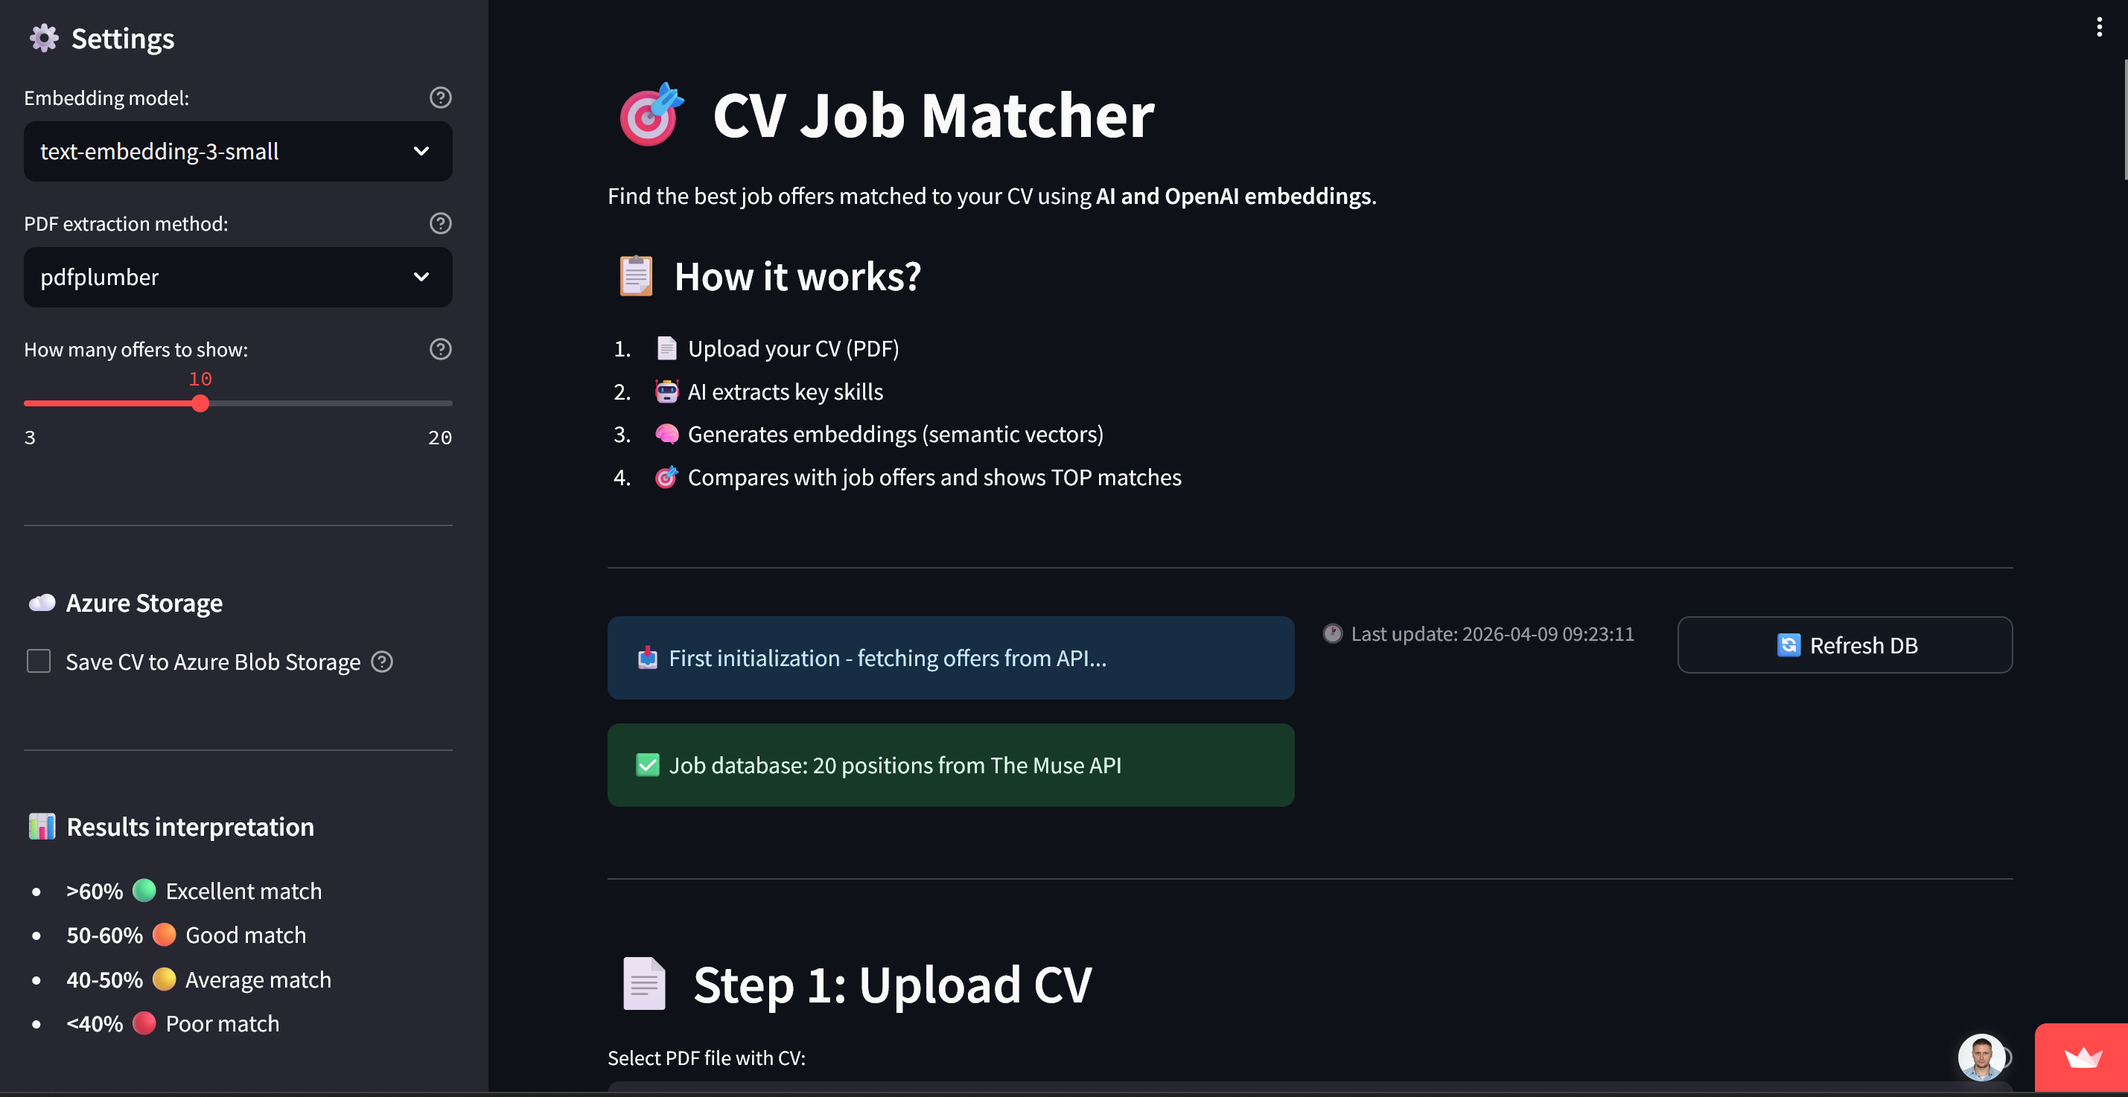
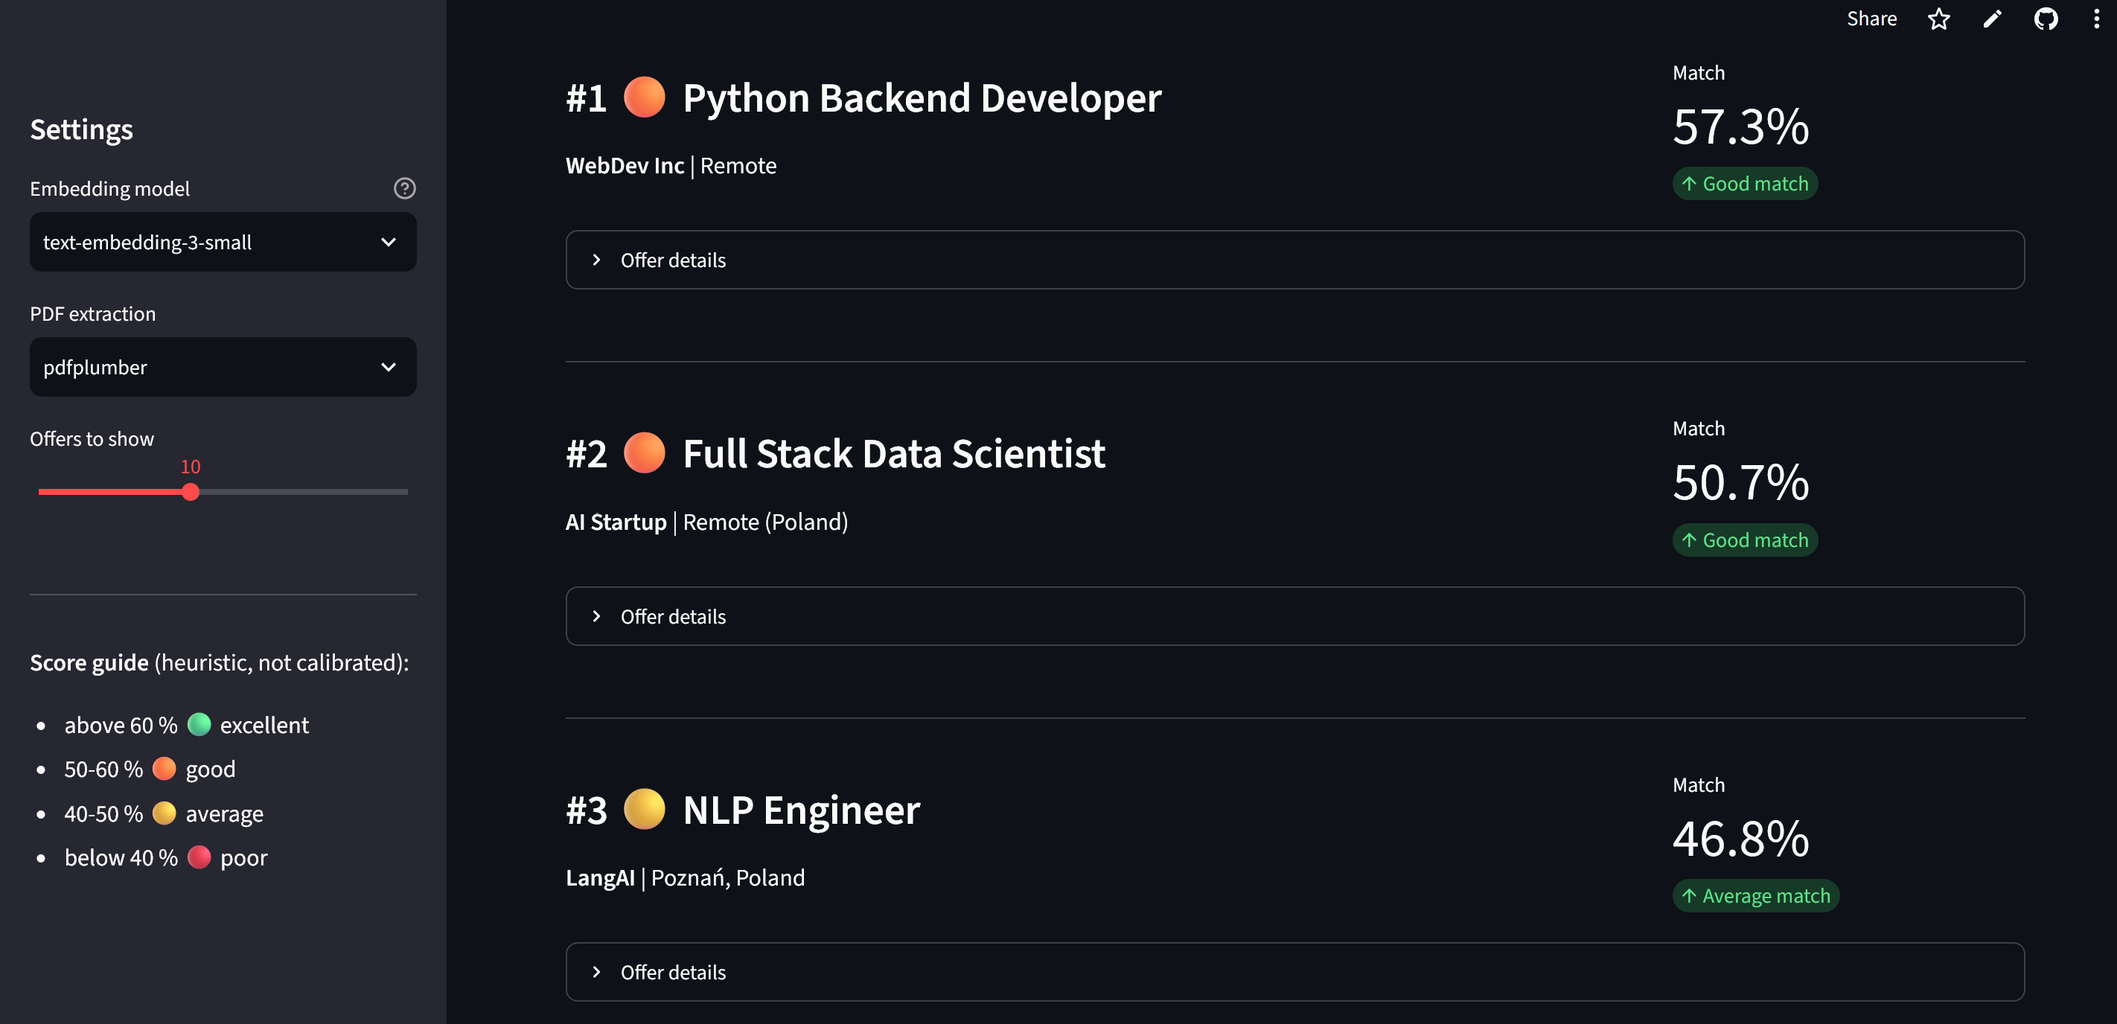
Portfolio: CV matcher and cuneiform pages, nav label, crosslinks

diff --git a/docs/18_cv-matching-openai-embeddings/index.md b/docs/18_cv-matching-openai-embeddings/index.md
@@ -1,98 +1,93 @@
 # 🎯 CV Job Matcher
 
-**AI-Powered CV Matching with OpenAI Embeddings, Streamlit**
+**Embedding-based CV to job-offer matching with OpenAI and Streamlit — with a privacy-first data flow and a test suite that needs no API key**
 
 ---
-![App View](18screen.png)
+![Ranked offers with match scores](18screen.png)
+*Ranking of the bundled fictional sample offers for one CV. Scores are cosine similarities of OpenAI embeddings; the bands are heuristic.*
 
 ## 🚀 Live Demo
 
-[▶ Open Live App](https://cv-matching-openai-embeddings.streamlit.app/)
+[▶ Open Live App](https://cv-matching-openai-embeddings.streamlit.app/) (Streamlit Community Cloud; the app sleeps when idle and wakes up with one click)
 
 ---
 
 ## 📌 Project Overview
 
-**CV Job Matcher** is an AI-powered web application that semantically matches a candidate's CV to real job offers using OpenAI embeddings and cosine similarity.
+**CV Job Matcher** ranks job offers against a CV. An LLM (`gpt-4o-mini`) condenses the CV into a short list of technical skills; the skills and the offers are embedded with `text-embedding-3-small/large`; offers are ranked by cosine similarity. Offers come from The Muse public API.
 
-The project was built as an **end-to-end portfolio project**, covering the full pipeline from PDF text extraction, through LLM-based skills condensation, semantic vector matching, to cloud deployment on Azure — demonstrating practical skills in AI integration, cloud storage, and production deployment.
+It is a **demonstration of an embedding pipeline, not a validated recommender**: there is no labelled relevance data, so match quality has not been measured, and the 60/50/40 % score bands are heuristic. The value of the project is the engineering around it: batching, caching, failure handling, privacy, and tests.
 
-It was designed bottom-up: starting with **3 exploratory Jupyter notebooks** to empirically validate each component before assembling the final Streamlit application.
-
----
-
-## 🎯 Features
-
-- 📄 **PDF CV extraction** — dual-library support: pdfplumber (default) and PyPDF2
-- 🤖 **AI skills extraction** — GPT-4o-mini condenses full CV into a concise skills summary before embedding
-- 🧠 **Semantic matching** — OpenAI `text-embedding-3-small` (1536-dim vectors) + cosine similarity
-- ☁ **Azure Blob Storage** — uploaded CVs persisted to `cv-uploads` container with timestamp naming
-- 🔄 **Live job data** — real-time offers from The Muse API (ML, DS, Python, AI, Deep Learning categories)
-- 📊 **CSV export** — download ranked match results
-- ⚡ **Cache TTL=1h** — minimizes API token costs across user sessions
+It was built bottom-up: three exploratory notebooks to try each component, then the Streamlit application, then a hardening release (privacy, correctness, tests, CI) driven by a written specification.
 
 ---
 
-## 🧠 Pipeline Architecture
+## 🔒 What happens to your CV
+
+| Step | What happens |
+|---|---|
+| Upload | PDF read **in memory** (max 5 MB, first 10 pages); never written to disk |
+| Skills extraction | CV text (max 20,000 characters) is **sent to OpenAI**; the UI says so |
+| Matching | only the short skills summary is embedded |
+| Storage | **nothing is stored.** The app has no storage code and no cloud-storage dependency |
+
+An earlier version could store uploaded CVs in cloud storage and listed recent file names to all visitors. That code was removed entirely in the hardening release because it exposed other people's data.
+
+---
+
+## 🧠 Pipeline
 
 ```
-[Upload PDF]
+[Upload PDF] → in-memory text extraction (pdfplumber / pypdf)
       ↓
-[pdfplumber → raw text ~9 600 chars]
+[gpt-4o-mini] → skills summary (~400 characters)
       ↓
-[GPT-4o-mini → skills condensation ~400 chars]
-  "Python, PyTorch, scikit-learn, Azure,
-   time series, ETL pipelines, OpenAI API..."
+[text-embedding-3-small] → CV vector (1536-dim)
       ↓
-[text-embedding-3-small → vector 1536-dim]
-CV skills → [−0.023, −0.008, 0.003, ...]
+[The Muse API / cached file / bundled sample offers]
       ↓
-[The Muse API → live job offers]
-  deduplicated by job.id, cached TTL=1h
+[batched embeddings, up to 100 texts per request, cached 1 h]
       ↓
-[text-embedding-3-small → job vectors]
-  title + description + requirements → vector
-      ↓
-[cosine_similarity (scikit-learn)]
-  sim(cv_vector, job_vector) → score 0.0–1.0
-      ↓
-[Ranked results + CSV export]
-      ↓
-[Azure Blob Storage]
-  CV saved as {timestamp}_{filename}
+[cosine similarity (NumPy)] → ranked offers + CSV export
 ```
 
 ---
 
 ## 💡 Key Design Decisions
 
-**Why GPT-4o-mini before embedding?**
-Full CV contains ~9 600 characters of noise — dates, formatting, project descriptions. Embedding raw CV produces noisier vectors. GPT-4o-mini reduces it to ~400 characters of pure skills signal, significantly improving matching quality. Validated empirically in notebook `02_embeddings_test.ipynb`.
+**Why condense the CV before embedding?** A full CV contains dates, formatting and project prose that dilute the vector. In a small exploratory comparison on 5 fictional offers the condensed version ranked the expected role first; this is an observation, not a proven effect.
 
-**Why cosine similarity over dot product?**
-OpenAI embeddings are L2-normalized (vector norm = 1.0), so cosine similarity is equivalent to dot product — but cosine similarity is robust to text length differences between CV and job descriptions.
+**Why is a failed embedding request fatal?** The first version skipped an offer whose embedding failed but kept it in the list, so `zip(jobs, similarities)` attached scores to the wrong offers — a silent wrong ranking. Embedding is now all-or-nothing: on failure the app shows an error and no ranking. `rank_jobs` also raises if the two lists differ in length.
 
-**Why Azure Blob Storage?**
-Azure Web App is stateless — files written to local disk are lost on restart. Blob Storage ensures CV persistence across deployments and provides an audit trail of uploaded files.
+**Why batching and caching?** One request per offer meant 100+ API calls per click. Offers are now embedded in batches of up to 100 and cached for an hour per offer set.
 
-**Why cache TTL=1h on job offers?**
-Each embedding call costs tokens. Caching prevents redundant API calls when multiple users refresh the app within the same hour window.
+**Why does the first start never call the network?** It uses the cached file or the bundled **fictional** sample offers (and says so in the UI); the network is used only on *Refresh DB*.
+
+**Why treat external data as untrusted?** Job titles and links come from a third party: only `http(s)` links are rendered and CSV cells that start with `=`, `+`, `-`, `@` are neutralised (spreadsheet formula injection).
 
 ---
 
-## 🔧 Notebooks (Research Phase)
+## 🧪 Testing
 
-| Notebook | Purpose | Key Finding |
-|---|---|---|
-| `01_pdf_extraction.ipynb` | Compared PyPDF2 vs pdfplumber | pdfplumber produces cleaner text (fewer formatting artifacts) |
-| `02_embeddings_test.ipynb` | Tested embedding strategies | Skills-only embedding outperforms full CV embedding; validated norm=1.0 |
-| `03_justjoin_api.ipynb` | Tested job data sources | The Muse API chosen; deduplication by job.id implemented |
+**38 automated tests run on every push and pull request** (GitHub Actions, Python 3.11, plus `ruff`). They need no API key and no network: OpenAI is replaced by a deterministic fake client.
+
+- **Ranking:** ordering, length mismatch raises, input not mutated, rating thresholds.
+- **Embeddings:** batching (calls = ceil(n/100)), row *i* belongs to text *i* even when the API returns items out of order, a failed request raises instead of returning partial results, long and empty texts.
+- **PDF:** text extraction from generated PDFs with both libraries, garbage input, page limit.
+- **Job data:** HTML stripping, payload formatting, de-duplication, network errors, `javascript:` links dropped, cache/sample fallback.
+- **Privacy rules:** no "Recent CVs" in the UI, no storage option, and no storage module or cloud-storage dependency in code, requirements, workflows or settings.
+- **App:** Streamlit `AppTest` runs the whole script, including matching end to end and "no ranking on embedding failure".
+- **Repository hygiene:** no `.env`, PDF or generated files tracked; no e-mail address or phone number in tracked notebook outputs.
+
+Mutation checks (re-introducing the length-mismatch bug, swallowing a failed embedding batch, removing the CSV neutralisation, bringing back the CV list, adding cloud-storage code) each make the suite fail.
+
+**Not covered:** the real OpenAI and The Muse APIs, match quality (no ground truth), and uploading a file through the browser widget.
 
 ---
 
-## 📊 Results
+## 📊 Illustration on sample offers
 
-Match scores from notebook validation (CV vs sample job offers):
+Scores from the exploratory notebook (a CV against 5 **fictional** sample offers). This shows that the pipeline runs and ranks plausibly, not how good it is on real data:
 
 | Rank | Job Title | Match Score |
 |---|---|---|
@@ -102,50 +97,40 @@ Match scores from notebook validation (CV vs sample job offers):
 | 4 | Python Backend Developer | 49.10% |
 | 5 | Junior Python Developer | 44.70% |
 
-> **Note:** Scores of 60%+ indicate strong semantic alignment. Cosine similarity between embedding vectors does not reach 90%+ for typical text pairs — the model correctly ranked the most relevant role first.
+> `text-embedding-3` similarities are compressed (rarely above 0.7), so the percentages are relative and the bands are heuristic.
 
 ---
 
 ## 🧰 Tech Stack
 
-- **Python 3.11**
-- **Streamlit** — web frontend and deployment UI
-- **OpenAI API** — `GPT-4o-mini` (skills extraction) + `text-embedding-3-small` (embeddings)
-- **scikit-learn** — `cosine_similarity` for vector matching
-- **Azure Blob Storage** — CV file persistence (SDK v12)
-- **Azure Web App** — production deployment (App Service)
-- **pdfplumber / PyPDF2** — PDF text extraction
+- **Python 3.11**, **Streamlit**
+- **OpenAI API** — `gpt-4o-mini` (skills extraction), `text-embedding-3-small/large` (embeddings)
+- **NumPy** — cosine similarity; **pandas** — CSV export
+- **pdfplumber / pypdf** — PDF text extraction
 - **The Muse API** — live job listings
-- **python-dotenv** — environment configuration
-- **Pandas** — results export to CSV
+- **pytest, ruff, GitHub Actions, Dependabot** — tests, lint, CI, dependency updates
 
 ---
 
-## 🚀 Use Cases
+## 🔗 Related Projects
 
-- Job seekers wanting to quickly assess CV fit before applying
-- AI/ML similarity search reference implementation
-- Azure cloud + OpenAI integration portfolio showcase
-- Semantic search demo with real-world data
-- Technical interviews for AI Engineer / Data Engineer roles
+- [Scientific Research Agent](../research-agent-langchain/index.md) — another OpenAI-based application, tested with a scripted fake model and no API key; it also carries a measured evaluation, which this project lacks.
+- [Carbon Nanotubes RAG System](../carbon-nanotubes-rag/index.md) — embeddings and semantic search with a measured retrieval quality (RAGAs).
 
 ---
 
-## 🔧 Potential Extensions
+## ⚠ Limitations
 
-- **Pre-computed job embeddings** stored in Azure AI Search — eliminates per-session embedding cost
-- **Azure Key Vault** — replace `.env` secrets with managed identity
-- **GitHub Actions CI/CD** — automated deployment pipeline
-- **Hybrid search** — combine cosine similarity with BM25 keyword matching
-- **Azure Application Insights** — monitor match distributions and API usage
-- **FastAPI backend** — decouple embedding logic from Streamlit frontend
+- Match quality is unmeasured and the notebook comparison is based on 5 fictional offers.
+- The Muse API returns mostly US-centric offers and only the first page (20) per search term.
+- The CV text is processed by a third party (OpenAI); this is stated in the UI.
 
 ---
 
 ## 📂 Repository
 
+🔗 <a href="https://github.com/slastrzelec/azure-cv-matching-openai-embeddings" target="_blank">GitHub Repository</a>
 
-🔗 <a href="https://github.com/slastrzelec/-azure-cv-matching-openai-embeddings" target="_blank">GitHub Repository</a>
 ---
 
 ## 👨💻 Author
@@ -161,10 +146,9 @@ Data Scientist | Machine Learning Practitioner
 
 ## 📌 Project Status
 
-✅ Completed & Deployed on Azure Web App
+✅ Hardened and tested; live demo on Streamlit Community Cloud.
 
-🔧 Potential next steps:
-- Pre-computed embeddings in Azure AI Search
-- Key Vault + Managed Identity for secrets
-- CI/CD via GitHub Actions
+🔧 Possible next steps:
+- A small labelled set of CV/offer pairs to measure ranking quality
+- Pre-computed offer embeddings in a vector store
 - Hybrid search (cosine + BM25)

diff --git a/docs/20_cuneiform-sign-classifier/index.md b/docs/20_cuneiform-sign-classifier/index.md
@@ -16,14 +16,15 @@ Cuneiform is one of the oldest writing systems in the world and still an active 
 | Metric | Result |
 |---|---|
 | Number of classes | Top 30 most frequent signs |
-| Test accuracy | 90.4% |
+| Test set | 1,699 sign images |
+| Test accuracy | 90.4% (95 % Wilson CI 88.9–91.7 %) |
 | Test macro-F1 | 0.896 |
 | Model | ResNet18 (transfer learning), CPU-only |
 | Dataset | MaiCuBeDa Hilprecht (28.7k annotated signs, CC BY-SA 4.0) |
 
 ## Methodology
 
-- **Train/val/test split (70/15/15) grouped by tablet**, not by individual image — the same sign from the same tablet never ends up in two splits at once. Verified with 8 automated data-integrity tests (`tests/test_no_leakage.py`), run on every push via GitHub Actions.
+- **Train/val/test split (70/15/15) grouped by tablet**, not by individual image — the same sign from the same tablet never ends up in two splits at once. Checked by automated tests of the splitting code itself (synthetic tablets, run on every push in CI) plus 8 optional manifest checks on the real split (see Testing below).
 - **Class weights** (inverse frequency) in the loss function to handle the ~5x imbalance between the most and least frequent of the top-30 classes.
 - **Model selected by macro-F1 on validation, not accuracy** — to avoid favoring the most frequent classes.
 - **Augmentation without mirror flips.** A standard `RandomHorizontalFlip` would be a methodological error here — mirroring a cuneiform sign changes its identity. Only small rotation (±8°) and light brightness/contrast jitter were used.
@@ -33,9 +34,9 @@ Cuneiform is one of the oldest writing systems in the world and still an active 
 
 Exploratory analysis revealed that the sign `U` (the number "10") has a **physically different form** depending on the historical period: a round indentation in the oldest tablets (ED IIIb, ca. 2500–2340 BC) vs. a clear triangular wedge in later periods — a documented paleographic phenomenon from an era when scribes partly used a round stylus for writing numbers.
 
-This was verified two independent ways:
+The evidence points the same way in two independent analyses:
 
-- **Quantitatively:** accuracy for `U` is 100% across every later period, but drops to 43% (3/7) specifically for the oldest period, ED IIIb.
+- **Quantitatively:** accuracy for `U` is 100% across every later period, but drops to 43% (3/7) specifically for the oldest period, ED IIIb. With n = 7 this is only indicative (95 % Wilson interval 16–75 %).
 - **Geometrically:** t-SNE on the model's 512-dimensional feature space shows the sign `U` forming **two separate clusters** corresponding to the two graphical variants — while a sign without this drift (`ASZ`) forms one coherent cluster.
 
 ![t-SNE embeddings showing the sign U splitting into two period-specific clusters](embeddings_period_drift.png)
@@ -48,12 +49,26 @@ The model wasn't told about paleography — it discovered a real historical fact
 ![Confusion matrix showing a clear diagonal with rare, explainable errors](confusion_matrix.png)
 *A clean diagonal — errors are rare and concentrated (e.g. `LUGAL→LU2`, `A↔MIN_(2)`), explainable by visual similarity between the signs' graphical components rather than random noise.*
 
+## 🧪 Testing
+
+**46 automated tests run on every push (GitHub Actions) together with a ruff lint check and a dependency audit.** The suite uses only synthetic data: no dataset, no trained checkpoint, no network, so it runs in about ten seconds on a fresh clone.
+
+- **Data splitting and leakage:** the code that builds the train/val/test split is tested on synthetic tablets (no tablet in two splits, every tablet assigned once, deterministic for a seed). The manifest of the real split is checked by 8 extra tests that run only when the dataset is present locally.
+- **Domain rule in augmentation:** the training pipeline contains no mirror flips, because a mirrored cuneiform sign is a different sign.
+- **Model and Grad-CAM:** output shape, the freeze policy (only `layer3`/`layer4`/`fc` receive updates), Grad-CAM shape/range on a random-weight model, hooks removed after every prediction.
+- **Safe checkpoint loading:** all `torch.load` calls use `weights_only=True`; a test builds a malicious checkpoint and proves that its payload does not run (with a control showing the unrestricted loader would run it).
+- **App:** Streamlit `AppTest` renders the app, lists classes, shows top-3 and the low-confidence warning.
+
+**Not covered (stated honestly):** the accuracy of the real trained model (the numbers come from running `evaluate.py` locally on the full dataset), the visual quality of Grad-CAM, the Hugging Face download and the Docker build.
+
+**Statistical caveat:** the ED IIIb result for the sign `U` is 3 of 7 (95 % Wilson interval 16–75 %), so it is an indication, not a proof.
+
 ## Tech stack
 
 - **Deep Learning:** PyTorch, torchvision (ResNet18, transfer learning)
 - **Interpretability:** Grad-CAM (custom implementation), t-SNE embeddings
 - **App:** Streamlit, with the trained checkpoint served from the Hugging Face Hub
-- **Testing:** pytest (8 dataset-integrity tests), GitHub Actions CI
+- **Testing:** pytest (46 synthetic-data tests + 8 optional dataset checks), ruff, GitHub Actions CI
 - **Deployment:** Streamlit Community Cloud + Hugging Face Hub (model hosting)
 
 **Related:** for the same leakage-aware thinking on microscopy images (near-duplicate clusters instead of tablets, plus an information-bar shortcut test and calibration), see the [SEM Nanostructure Classifier](../sem-nanostructure-classifier/index.md). For a project on *detecting and localizing* objects — not just classifying an already-cropped one — see [People Counter](../people-counter-yolox/index.md), which uses YOLOX-nano object detection plus multi-object tracking. Another ResNet18 transfer-learning classifier is [Emotion Recognition](../emotion-recognition-cv/index.md): there the label noise and class imbalance of FER-2013 are the main difficulty, and the result is compared honestly against a from-scratch CNN baseline.

diff --git a/docs/index.md b/docs/index.md
@@ -13,7 +13,7 @@ In this portfolio, you'll find selected projects showcasing that mix of scientif
 * [🔍 SEM Nanostructure Classifier (PyTorch · ConvNeXt · Leakage-free evaluation)](sem-nanostructure-classifier/index.md)
 * [🏺 Cuneiform Sign Classifier (PyTorch · Grad-CAM · HF Hub)](20_cuneiform-sign-classifier/index.md)
 * [🤖 Scientific Research Agent (LangChain · LangGraph · LangFuse)](research-agent-langchain/index.md)
-* [🎯 CV-Job Matching System (OpenAI API · REST API)](18_cv-matching-openai-embeddings/index.md)
+* [🎯 CV-Job Matching System (OpenAI embeddings · Streamlit)](18_cv-matching-openai-embeddings/index.md)
 * [⚡ KDB+/Q vs SQL Benchmark (kdb+/q · DuckDB · AWS · Prophet)](energy-forecasting-sql-vs-kdb/index.md)
 
 ## 🖼 Computer Vision

diff --git a/docs/research-agent-langchain/index.md b/docs/research-agent-langchain/index.md
@@ -135,7 +135,7 @@ When LangFuse keys are configured, every step is traced there.
 ### Related projects
 
 - [Carbon Nanotubes RAG System](../carbon-nanotubes-rag/index.md) — retrieval-augmented generation with evaluation (RAGAs)
-- [CV-Job Matching System](../18_cv-matching-openai-embeddings/index.md) — OpenAI embeddings + REST API
+- [CV-Job Matching System](../18_cv-matching-openai-embeddings/index.md) — OpenAI embeddings and semantic ranking, with a Streamlit app
 
 ---
 
